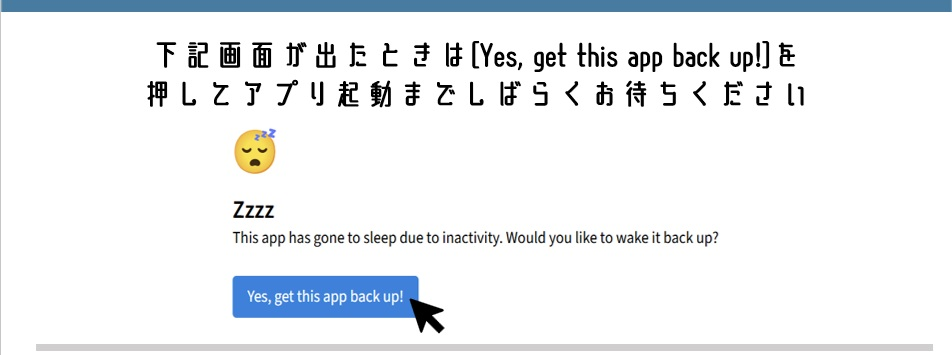
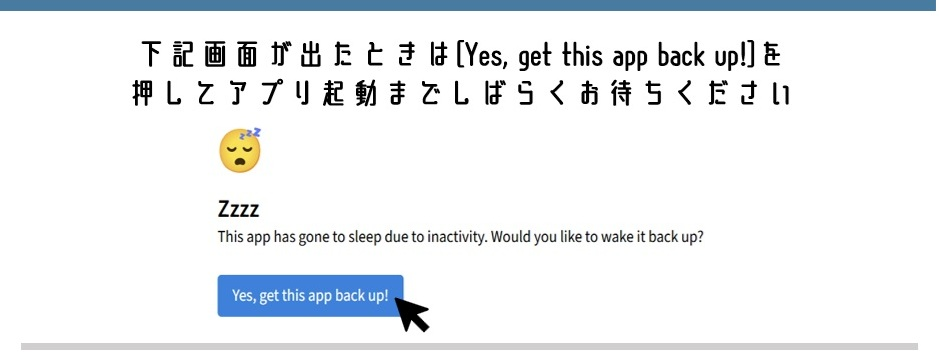
first commit

diff --git a/app.py b/app.py
@@ -107,7 +107,7 @@ def show_home_page():
 
         st.image(logo_image, use_container_width=True)
         st.image(main_image, use_container_width=True)
-        st.image(sub_image, use_column_width=True)
+        st.image(sub_image, use_container_width=True)
     else:
         st.warning(st.secrets["PIC_ERR"])
     
